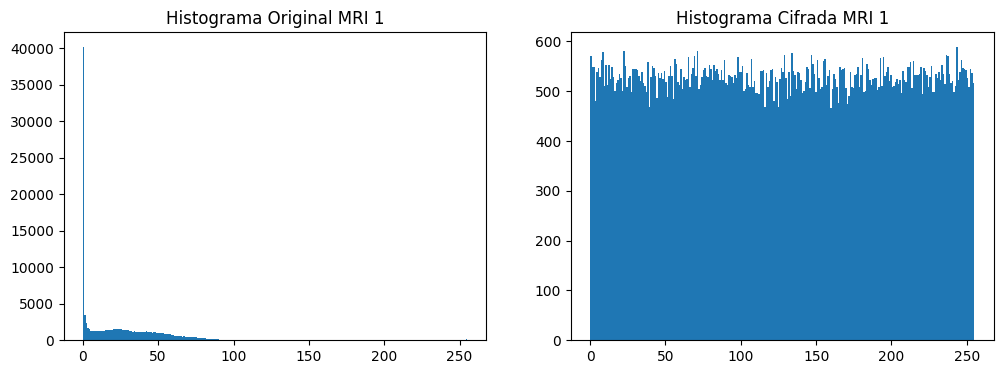
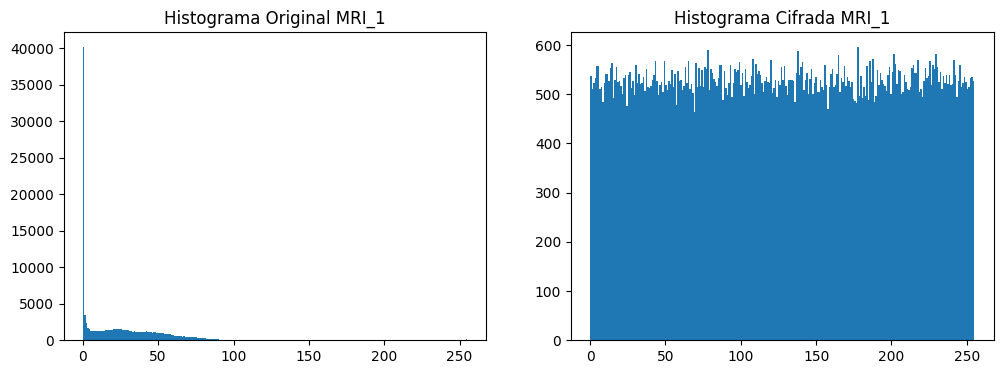
arreglo del analisis descrifrado

diff --git a/Tests/analisis_descifrado.py b/Tests/analisis_descifrado.py
@@ -1,20 +1,39 @@
+import sys
+import shutil
+from pathlib import Path
+import os
 import cv2 as cv
 import numpy as np
 import matplotlib.pyplot as plt
 from skimage.metrics import peak_signal_noise_ratio as psnr
-import sys
-import os
-from pathlib import Path
 
-#para ejecutarlo -> python -m Tests.analisis_descifrado
-sys.path.append(str(Path(__file__).parent.parent / "Scripts"))
-from main import encrypt_image, load_keys, save_image, prepare_image
+# ==========================================================
+# PATHS DEL PROYECTO
+# ==========================================================
+BASE_DIR = Path(__file__).parent.parent
+SRC_DIR = BASE_DIR / "src"         # core, encoder, decoder
+SCRIPTS_DIR = BASE_DIR / "Scripts" # main.py
+KEYS_DIR = BASE_DIR / "Claves"
+RESULTS_DIR = BASE_DIR / "Resultados"
 
-#méticas
+sys.path.insert(0, str(SRC_DIR))
+sys.path.insert(0, str(SCRIPTS_DIR))
+
+# ==========================================================
+# IMPORTS
+# ==========================================================
+from core import *
+from encoder import encode
+from decoder import decode
+from main import load_keys
+
+# ==========================================================
+# MÉTRICAS
+# ==========================================================
 def safe_psnr(original, decrypted):
-    mse_val = np.mean((original.astype(np.float32) - decrypted.astype(np.float32))**2)
+    mse_val = np.mean((original.astype(np.float32) - decrypted.astype(np.float32)) ** 2)
     if mse_val == 0:
-        return float('inf')
+        return float("inf")
     return psnr(original, decrypted)
 
 def mse(original, decrypted):
@@ -25,174 +44,144 @@ def correlation_coefficient(image):
     y = image[:, :-1].ravel()
     return np.corrcoef(x, y)[0, 1]
 
-def npcr_uaci(C1, C2):
-    diff = C1 != C2
-    NPCR = np.sum(diff) * 100 / diff.size
-    UACI = np.sum(np.abs(C1.astype(np.float32) - C2.astype(np.float32))) * 100 / (255 * diff.size)
-    return NPCR, UACI
-
+# ==========================================================
+# HISTOGRAMAS
+# ==========================================================
 def plot_histograms(original, encrypted, title="", save_path=None, show=True):
-
     plt.figure(figsize=(12, 4))
-
     plt.subplot(1, 2, 1)
     plt.hist(original.ravel(), bins=256)
     plt.title(f"Histograma Original {title}")
-
     plt.subplot(1, 2, 2)
     plt.hist(encrypted.ravel(), bins=256)
     plt.title(f"Histograma Cifrada {title}")
-
-    if save_path is not None:
+    if save_path:
         os.makedirs(os.path.dirname(save_path), exist_ok=True)
-        plt.savefig(save_path, bbox_inches='tight')
+        plt.savefig(save_path, bbox_inches="tight")
         print(f"✅ Histograma guardado en: {save_path}")
-    
     if show:
         plt.show()
-    
     plt.close()
 
-#corte de imágenes
+# ==========================================================
+# UTILIDADES
+# ==========================================================
 def crop_to_blocks(im, l):
-    h, w = im.shape[:2]
-    h_new = h - (h % l)
-    w_new = w - (w % l)
-    return im[:h_new, :w_new]
+    h, w = im.shape
+    return im[: h - (h % l), : w - (w % l)]
 
-#análisis
-def analizar_imagen(path_original, path_cifrada, path_descifrada, nombre=""):
+def activar_key(path_key):
+    """Copia la key correcta para main.py"""
+    if not path_key.exists():
+        raise FileNotFoundError(f"No existe la key: {path_key}")
+    shutil.copy(path_key, BASE_DIR / "keys.json")
+    print(f"🔐 Key activada: {path_key.name}")
+
+# ==========================================================
+# ANÁLISIS DE UNA IMAGEN
+# ==========================================================
+def analizar_imagen(path_original, path_cifrada, path_descifrada, path_key, nombre=""):
 
     print("\n===============================================")
     print(f"ANALIZANDO: {nombre}")
     print("===============================================\n")
 
-    O = cv.imread(path_original, cv.IMREAD_GRAYSCALE)
-    C = cv.imread(path_cifrada, cv.IMREAD_GRAYSCALE)
-    D = cv.imread(path_descifrada, cv.IMREAD_GRAYSCALE)
+    activar_key(path_key)
 
+    # Cargar imágenes
+    O = cv.imread(str(path_original), cv.IMREAD_GRAYSCALE)
+    C = cv.imread(str(path_cifrada), cv.IMREAD_GRAYSCALE)
+    D = cv.imread(str(path_descifrada), cv.IMREAD_GRAYSCALE)
     if O is None or C is None or D is None:
-        print("Error cargando una de las imágenes.")
+        print("❌ Error cargando imágenes")
         return
 
     rounds = 3
     l = 16
-    A, X0 = load_keys()
-    O = crop_to_blocks(O, l)
-    D = crop_to_blocks(D, l)
-    C = crop_to_blocks(C, l)
 
+    A, X0 = load_keys()
+
+    O = crop_to_blocks(O, l)
+    C = crop_to_blocks(C, l)
+    D = crop_to_blocks(D, l)
+
+    # Métricas de descifrado
     print("Métricas del descifrado:")
     print("PSNR:", safe_psnr(O, D))
     print("MSE :", mse(O, D))
 
-    #correlación
+    # Correlación
     print("\nCorrelación en imagen cifrada:")
     print("Correlación horizontal:", correlation_coefficient(C))
 
-    #NPCR & UACI
-    print("\nNPCR & UACI:")
-
-    O_mod = O.astype(np.uint16).copy()
-    O_mod[0, 0] = (O_mod[0, 0] + 1) % 256
+    # -----------------------------
+    # NPCR & UACI usando tu código
+    # -----------------------------
+    O_mod = O.copy().astype(np.uint16)
+    O_mod[0,0] = (O_mod[0,0] + 1) % 256
     O_mod = O_mod.astype(np.uint8)
+
     C_mod_blocks = encrypt_image(O_mod, rounds, l, A, X0)
-    C_mod = np.zeros_like(C)
-    idx = 0
-    for i in range(0, C.shape[0], l):
-        for j in range(0, C.shape[1], l):
-            C_mod[i:i + l, j:j + l] = C_mod_blocks[idx]
-            idx += 1
+    C_mod = blocks_to_image(C_mod_blocks, O.shape, l)
 
-    NPCR, UACI = npcr_uaci(C, C_mod)
-    print("NPCR:", NPCR)
-    print("UACI:", UACI)
+    H = min(C.shape[0], C_mod.shape[0])
+    W = min(C.shape[1], C_mod.shape[1])
+    C = C[:H, :W]
+    C_mod = C_mod[:H, :W]
 
-    #histogramas
-    hist_path = os.path.join("Resultados", f"histograma_{nombre.replace(' ', '_')}.png")
-    print("\nMostrando y guardando histogramas...")
-    plot_histograms(O, C, title=nombre, save_path=hist_path, show=True)
+    diff = cv.absdiff(C, C_mod)
+    diff_visual = np.clip(diff * 20, 0, 255).astype(np.uint8)
+    diff_binary = (diff > 0).astype(np.uint8) * 255
 
+    cv.imwrite(f"{RESULTS_DIR}/C1_{nombre}.png", C)
+    cv.imwrite(f"{RESULTS_DIR}/C2_{nombre}.png", C_mod)
+    cv.imwrite(f"{RESULTS_DIR}/Diff_{nombre}.png", diff_visual)
+    cv.imwrite(f"{RESULTS_DIR}/Diff_binary_{nombre}.png", diff_binary)
 
-#analizando 3 imágenes
-print("\nINICIANDO ANÁLISIS DE 3 IMÁGENES...")
+    Cblocks = prepare_image(C, l)
+    Iblocks = decrypt_image(Cblocks, rounds, l, O.shape, A, X0)
+    I_img = blocks_to_image(Iblocks, O.shape, l)
 
-analizar_imagen(
-    "Imagenes/mri1.jpg",
-    "encrypted1.png",
-    "decrypted1.png",
-    nombre="MRI 1"
-)
+    NPCR, UACI = npcr_uaci(I_img, C_mod)
 
-analizar_imagen(
-    "Imagenes/mri2.jpg",
-    "encrypted2.png",
-    "decrypted2.png",
-    nombre="MRI 2"
-)
+    print("\n========= NPCR & UACI =========")
+    print(f"NPCR = {NPCR:.6f}%")
+    print(f"UACI = {UACI:.6f}%")
+    print("================================")
 
-analizar_imagen(
-    "Imagenes/mri3.jpg",
-    "encrypted3.png",
-    "decrypted3.png",
-    nombre="MRI 3"
-)
+    # Histogramas
+    hist_path = RESULTS_DIR / f"histograma_{nombre}.png"
+    plot_histograms(O, C, title=nombre, save_path=str(hist_path), show=True)
 
-print("\nAnálisis finalizado.\n")
+# ==========================================================
+# EJECUCIÓN DEL TEST
+# ==========================================================
+if __name__ == "__main__":
 
-#análisis obtenidos:
+    print("\nINICIANDO ANÁLISIS DIFERENCIAL COMPLETO...\n")
 
-'''
-===============================================
-ANALIZANDO: MRI 1
-===============================================
+    analizar_imagen(
+        BASE_DIR / "Imagenes/mri1.jpg",
+        BASE_DIR / "Imagenes/MR1_cifrada.png",
+        BASE_DIR / "Imagenes/MR1_descifrada.png",
+        KEYS_DIR / "keys_mr1.json",
+        nombre="MRI_1"
+    )
 
-Métricas del descifrado:
-PSNR: inf
-MSE : 0.0
+    analizar_imagen(
+        BASE_DIR / "Imagenes/mri2.jpg",
+        BASE_DIR / "Imagenes/MR2_cifrada.png",
+        BASE_DIR / "Imagenes/MR2_descifrada.png",
+        KEYS_DIR / "keys_mr2.json",
+        nombre="MRI_2"
+    )
 
-Correlación en imagen cifrada:
-Correlación horizontal: -0.005492672331771436
+    analizar_imagen(
+        BASE_DIR / "Imagenes/mri3.jpg",
+        BASE_DIR / "Imagenes/MR3_cifrada.png",
+        BASE_DIR / "Imagenes/MR3_descifrada.png",
+        KEYS_DIR / "keys_mr3.json",
+        nombre="MRI_3"
+    )
 
-NPCR & UACI:
-NPCR: 99.62488185255198
-UACI: 33.503807
-
-Mostrando histogramas...
-
-===============================================
-ANALIZANDO: MRI 2
-===============================================
-
-Métricas del descifrado:
-PSNR: inf
-MSE : 0.0
-
-Correlación en imagen cifrada:
-Correlación horizontal: 0.0022035103425170704
-
-NPCR & UACI:
-NPCR: 99.6234170751634
-UACI: 33.506397
-
-Mostrando histogramas...
-
-===============================================
-ANALIZANDO: MRI 3
-===============================================
-
-Métricas del descifrado:
-PSNR: inf
-MSE : 0.0
-
-Correlación en imagen cifrada:
-Correlación horizontal: 0.0004065524725433982
-
-NPCR & UACI:
-NPCR: 3.1258468834688347
-UACI: 0.012258223
-
-Mostrando histogramas...
-
-Análisis finalizado.
-'''
+    print("\nANÁLISIS DIFERENCIAL FINALIZADO.\n")
